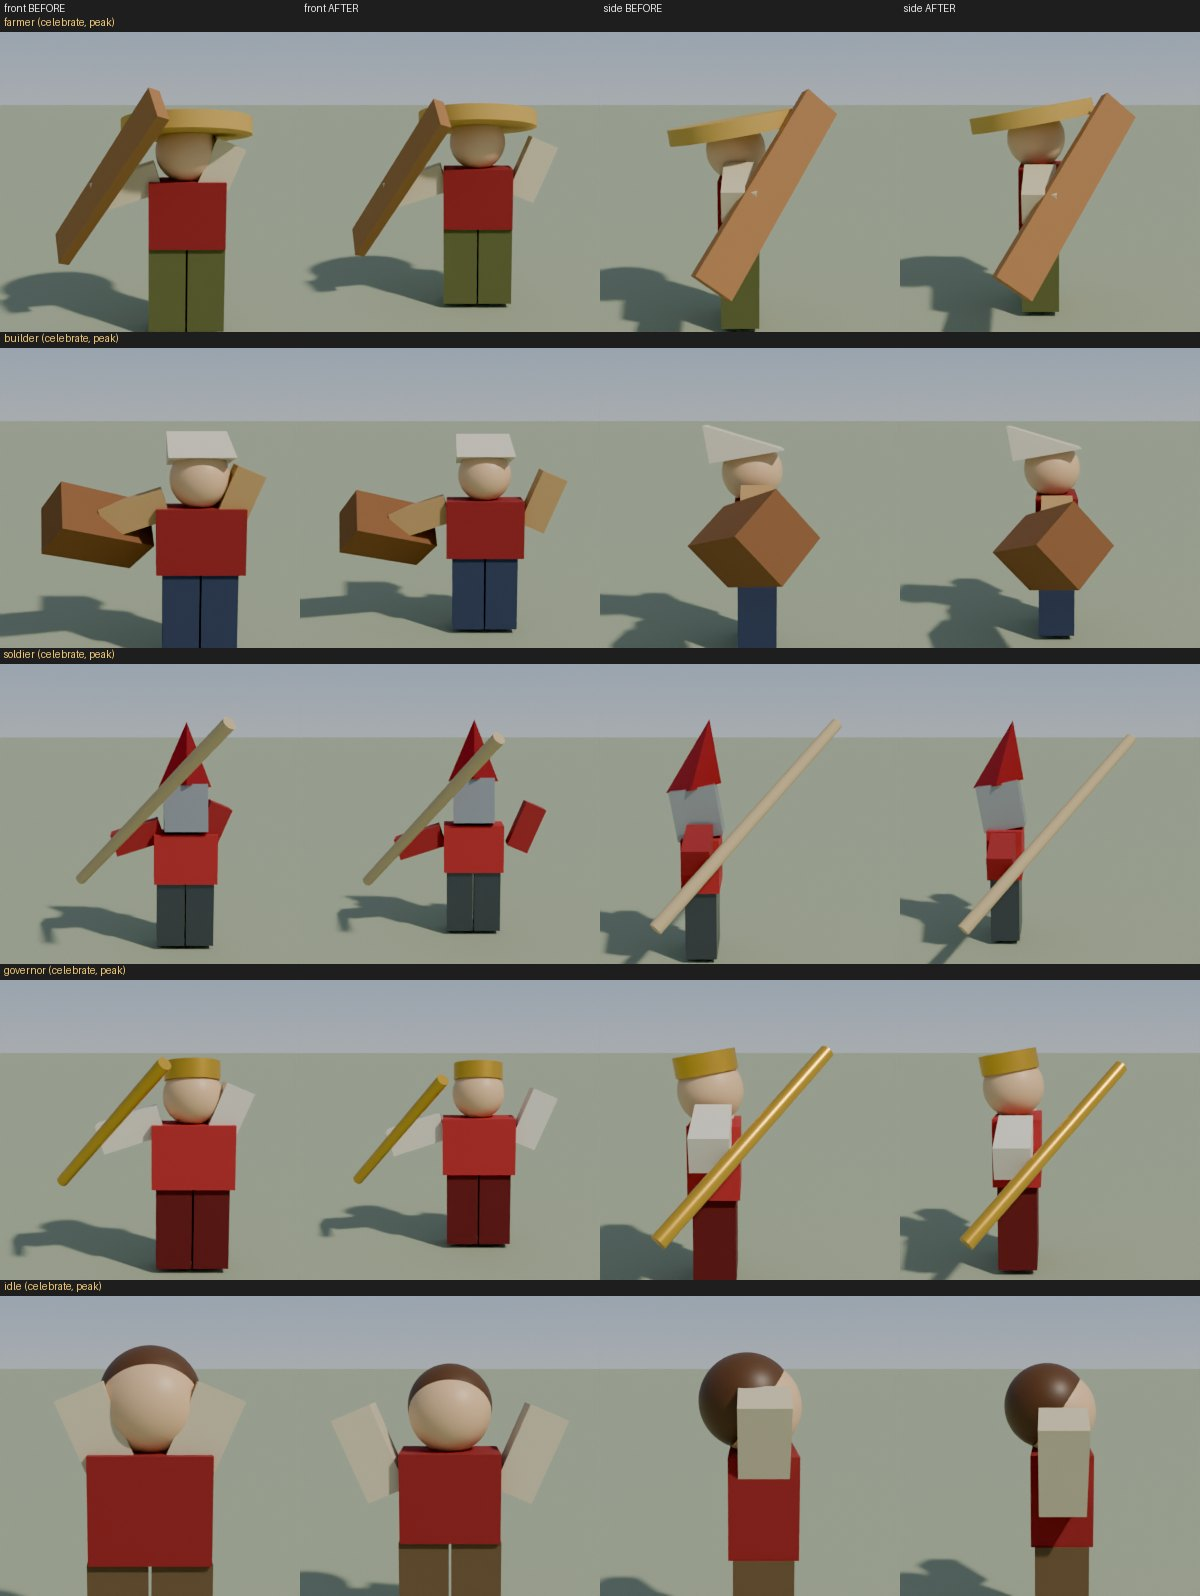
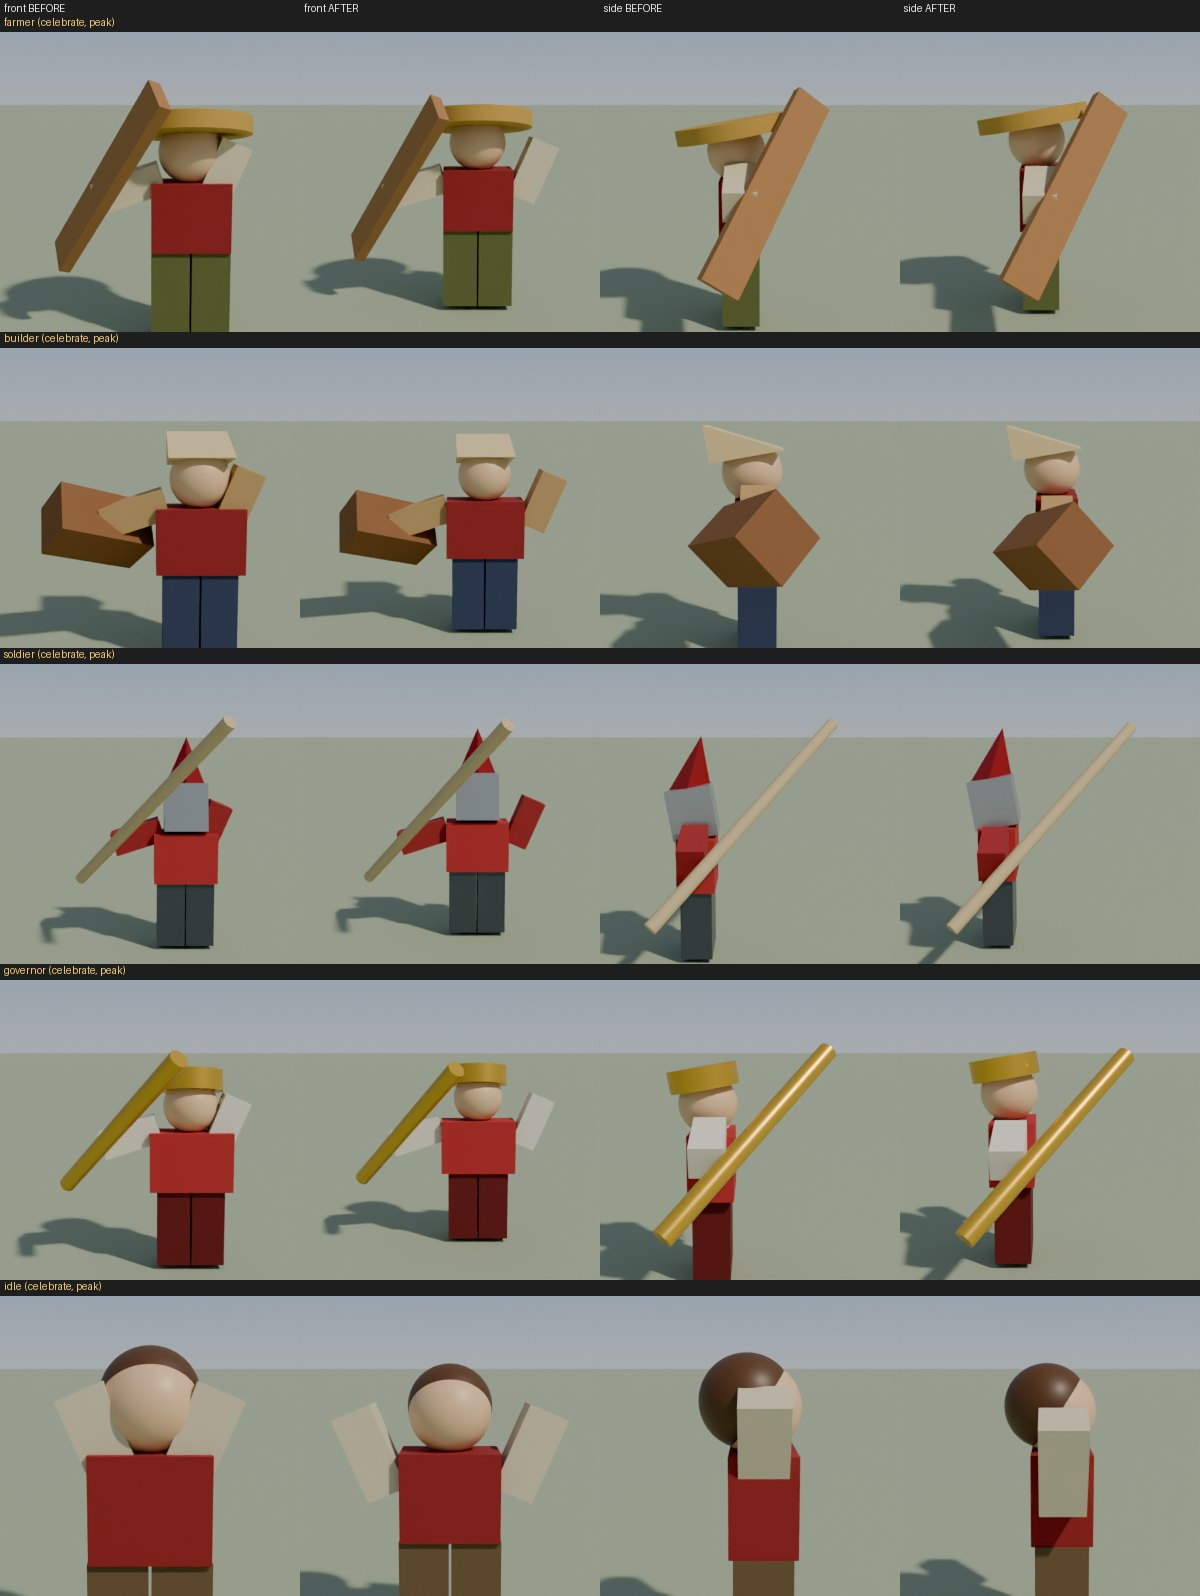
FL-0118 B18: celebrate and crowd renders re-made at pivot 0.41 for every rig (soldier arm attached); images and doc only
Before = main 17420a0 (same rigs, old pivots), after = b990506. Soldier raised arm attached to the shoulder, clear of
the helm. Studio unverified.

Claude-Session: https://claude.ai/code/session_01QhAZKvWsRXpSKTGWcY3Eq6

diff --git a/games/game-001/art/reviews/kit-characters.md b/games/game-001/art/reviews/kit-characters.md
@@ -422,19 +422,27 @@ stopped here. Phase 2 (the next stacked branch) takes the tools, the hauler's st
 
 ## FL-0118 B18: arm pivots outside the torso (D-019 renders, before and after)
 
-What moved (FORGE-00, branch `forge/02-blender-shoulders`, 41ef850): only the two arm Motor6D pivots, out to the arm's centre line (0.41 outside
-the torso's side, on every rig). The arm parts sit exactly where they did at rest; `Pose.JOINTS`, the joint names and the wire are unchanged.
-FORGE-01's probe (not re-measured here): free arm against the head in the arms-up cheer -0.10 to -0.32 before, +0.45 to +0.69 after, other
-actions unchanged. Before is main `f86ad7f` (a scratch worktree), after is 41ef850, both with `Sim/Pose` from main (#154 plus #158). Blender previews,
-not a Studio play test. Images in `img/`: `citizen_shoulders_rest40.jpg` (8 rigs at rest, about 40 studs, colour and grayscale),
-`citizen_shoulders_rest170.jpg` (4 per job at 170 studs, 50 degrees), `citizen_shoulders_celebrate.jpg` (farmer, builder, soldier, governor and idle at the
-peak of the cheer, front and side, before and after), `citizen_shoulders_crowd.jpg` (30 cheering citizens, 50 degrees at 170 studs).
-- **Rest:** nothing changed. The before and after renders at 40 and at 170 studs are pixel-identical (mean absolute difference 0.0), and in the
-  dump of every rest pose no part moved. The only parts that moved anywhere outside the cheer in my dumps are the hauler's two arms in its carry
-  pose, by 0.066 studs (not visible at the size I looked at).
-- **Cheer (looked at, farmer, builder, soldier, governor, idle):** before, the free arm goes through the head or lies over the face (the idle citizen's two arms cover the cheeks); after,
-  the arm rises beside the head with a visible gap, so the cheer is two raised arms in a V and the face stays clear. In the cheer dump 192 of 774 parts
-  moved: both arms of every rig (40 each) and the tools in the right hands (30), which follow their arm. The arms stand about 0.4 studs wider apart, so
-  the cheer silhouette is a little wider and clearer, not different; the held tools sit about as before. The soldier's raised arm stood a hand's width off the torso at pivot 0.55 (reads detached; FORGE-05, D-051 (b)), so the soldier now pivots on its arm centre line like the citizens (0.41): arm-vs-helm in the cheer -0.322 before, +0.356 now (+0.448 at 0.55); the renders of this section were re-made at 0.41.
-- **Crowd:** the cheering crowd crop shows the raised arms beside the heads instead of overlapping them; kingdom-red pixels in the crop 294 before,
-  349 after (more sleeve and shoulder visible from above). No visible clip. Studio unverified.
+What moved (FORGE-00, branch `forge/02-blender-shoulders`, code head b990506): only the two arm Motor6D pivots, out to the arm's centre line (0.41
+outside the torso's side, one shared value for every rig, the soldier included). The arm parts sit exactly where they did at rest; `Pose.JOINTS`, the
+joint names and the wire are unchanged. FORGE-00 and FORGE-01's numbers (not re-measured here): free arm against the head in the arms-up cheer
+-0.10 to -0.32 before, +0.45 to +0.69 after (the soldier's arm against its helm -0.322 before, +0.356 at 0.41; at the first try of 0.55 it was +0.448
+but the raised arm floated off the shoulder, FORGE-05, D-051 (b)), other actions unchanged. Blender previews, not a Studio play test, `Sim/Pose` from
+main (#154 plus #158) in every render. Images in `img/`:
+- `citizen_shoulders_rest40.jpg` (8 rigs at rest, about 40 studs, colour and grayscale) and `citizen_shoulders_rest170.jpg` (4 per job at 170 studs, 50
+  degrees): main `f86ad7f` against 41ef850, the first try (#138's rigs). The rest pose does not depend on the pivot, so they still stand for b990506.
+- `citizen_shoulders_celebrate.jpg` (farmer, builder, soldier, governor and idle at the peak of the cheer, front and side) and
+  `citizen_shoulders_crowd.jpg` (30 cheering citizens, 50 degrees at 170 studs): re-rendered at 0.41 for every rig. Before is main `17420a0`, the main side of
+  the merge into b990506, after is b990506. They differ only in the arm pivots (the same rigs, #153's included), which is why the before is not
+  `f86ad7f` here.
+- **Rest:** nothing changed. The before and after renders at 40 and at 170 studs are pixel-identical (mean absolute difference 0.0), and in the dump of
+  every rest pose no part moved. The only parts that moved anywhere outside the cheer in my dumps are the hauler's two arms in its carry pose, by 0.066
+  studs (not visible at the size I looked at; measured at 41ef850).
+- **Cheer (looked at: farmer, builder, soldier, governor, idle):** before, the free arm goes through the head or lies over the face (the idle citizen's two
+  arms cover the cheeks); after, the arm rises beside the head with a visible gap, so the cheer is two raised arms in a V and the face stays clear. In the
+  8-rig cheer dump 110 of 355 parts moved: both arms of every rig (40 each, 5 views times 8 rigs) and the tools in the right hands (30), which follow their
+  arm. The arms stand about 0.4 studs wider apart, so the cheer silhouette is a little wider and clearer, not different; the held tools sit about as before.
+- **Soldier, front and side:** the raised arm is attached to the shoulder (its lower end meets the torso's top corner, as on the citizens), with a visible
+  gap to the helm in both views, and no new clip with the helm or the spear. The spear shaft still crosses the helm's crest in the front view, as before
+  the change: it is in front of it in space (FORGE-01's `PoseClearance` passes on the Kit), so that is projection.
+- **Crowd:** the cheering crowd crop shows the raised arms beside the heads instead of overlapping them; kingdom-red pixels in the crop 283 before, 341
+  after (more sleeve and shoulder visible from above). No visible clip. Studio unverified.
